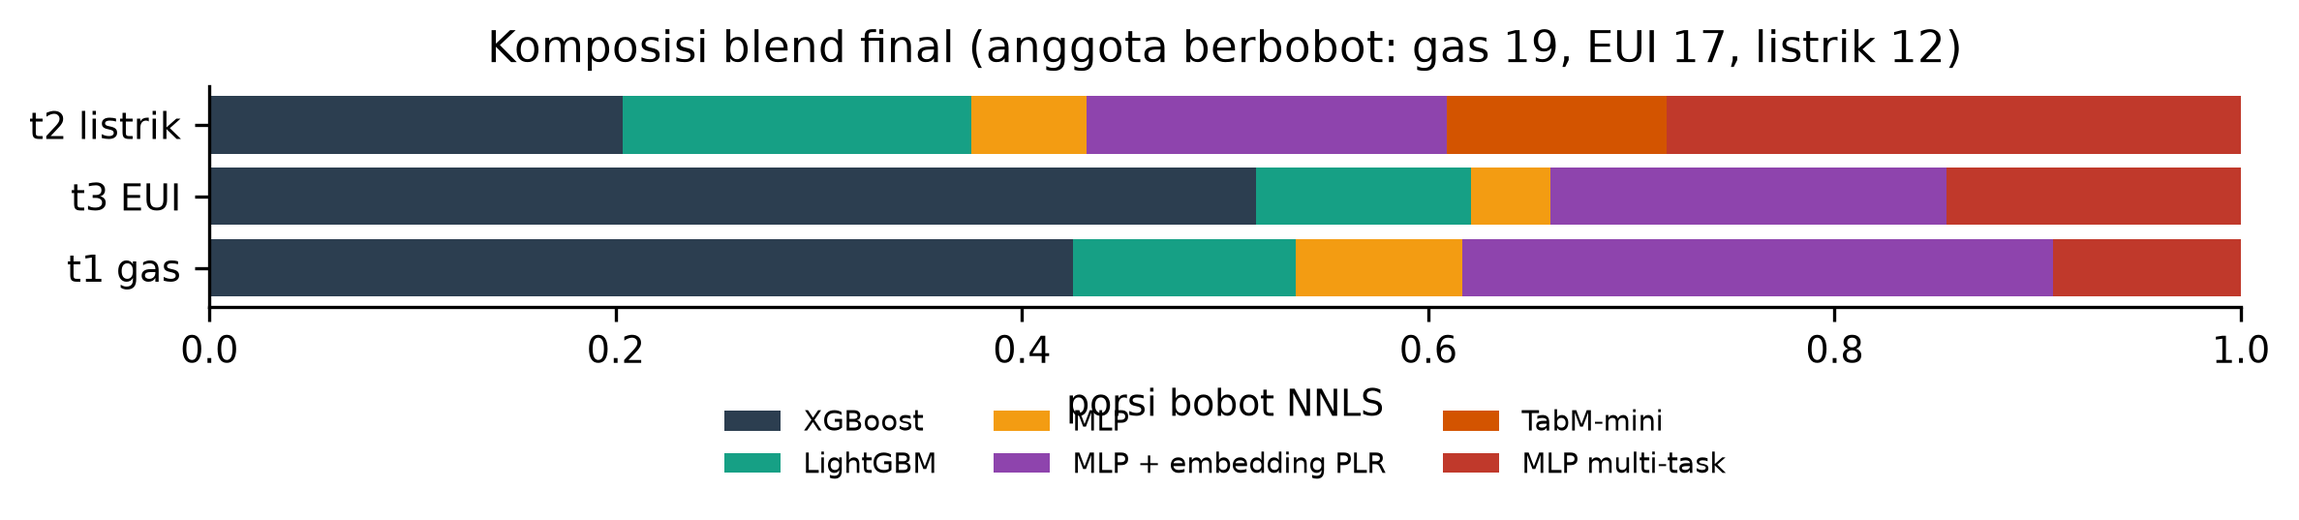
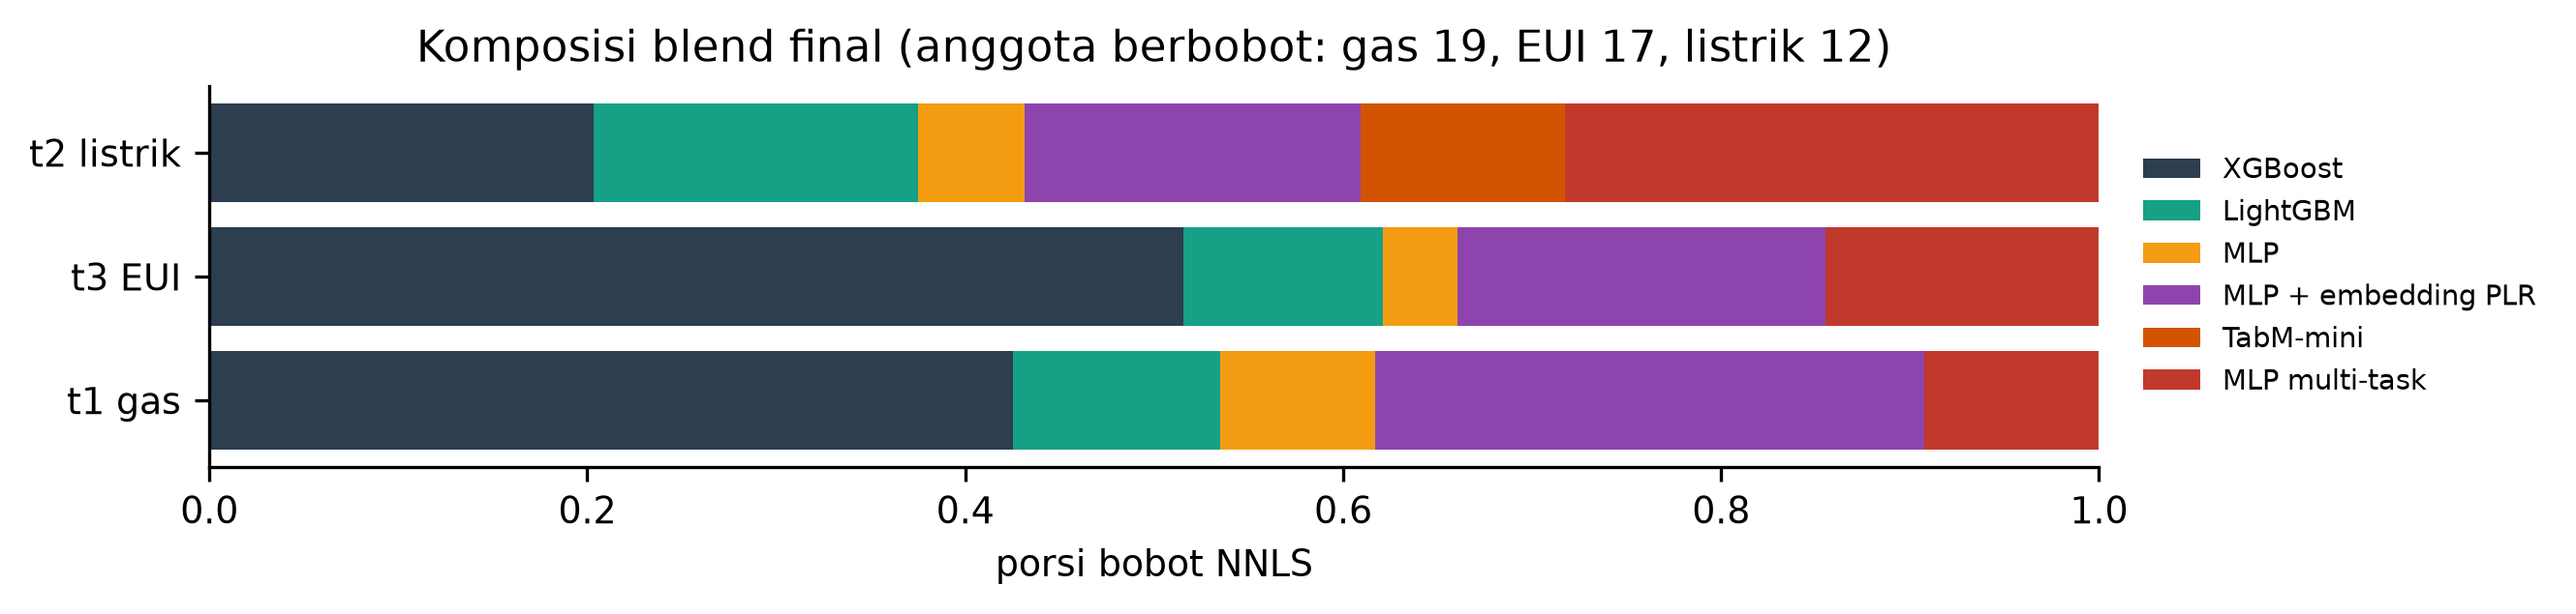
writeup: figures embedded, PDF builder (isolated venv), claims corrected; coverage statuses updated

diff --git a/scripts/build_writeup_pdf.py b/scripts/build_writeup_pdf.py
@@ -1,0 +1,65 @@
+"""Render reports/WRITEUP_DRAFT.md (+ reports/figures) to an A4 PDF.
+
+Needs markdown-it-py and xhtml2pdf, which are NOT part of the modelling environment. Run it from a separate venv:
+    python3 -m venv pdfenv && pdfenv/bin/pip install xhtml2pdf markdown-it-py
+    pdfenv/bin/python scripts/build_writeup_pdf.py [out.pdf]
+"""
+import os
+import re
+import sys
+
+from markdown_it import MarkdownIt
+from reportlab.lib.fonts import addMapping
+from reportlab.pdfbase import pdfmetrics
+from reportlab.pdfbase.ttfonts import TTFont
+from xhtml2pdf import pisa
+from xhtml2pdf.default import DEFAULT_FONT
+
+ROOT = os.path.abspath(os.path.join(os.path.dirname(__file__), ".."))
+SRC = os.path.join(ROOT, "reports", "WRITEUP_DRAFT.md")
+OUT = sys.argv[1] if len(sys.argv) > 1 else os.path.join(ROOT, "reports", "WRITEUP.pdf")
+FONT = "/usr/share/fonts/truetype/dejavu/DejaVuSans.ttf"
+FONT_B = "/usr/share/fonts/truetype/dejavu/DejaVuSans-Bold.ttf"
+
+# DejaVu covers the non-ASCII characters of the text (superscripts, arrows, approx. signs)
+pdfmetrics.registerFont(TTFont("dv", FONT))
+pdfmetrics.registerFont(TTFont("dvb", FONT_B))
+for bold, italic in ((0, 0), (0, 1), (1, 0), (1, 1)):
+    addMapping("dv", bold, italic, "dvb" if bold else "dv")
+DEFAULT_FONT["dv"] = "dv"
+
+CSS = f"""
+@page {{ size: a4 portrait; margin: 2cm 2cm 2cm 2cm;
+        @frame footer {{ -pdf-frame-content: foot; bottom: 1cm; margin-left: 2cm; margin-right: 2cm; height: 0.6cm; }} }}
+body {{ font-family: dv; font-size: 9.5pt; line-height: 1.35; }}
+h1 {{ font-size: 15pt; margin-bottom: 2pt; }}
+h2 {{ font-size: 12pt; margin-top: 10pt; margin-bottom: 3pt; border-bottom: 0.5pt solid #888; }}
+p {{ margin: 3pt 0; text-align: justify; }}
+li {{ margin: 1pt 0; }}
+table {{ border-collapse: collapse; margin: 4pt 0; }}
+th, td {{ border: 0.5pt solid #999; padding: 2pt 3pt; font-size: 8pt; }}
+th {{ background-color: #e8e8e8; }}
+img {{ width: 16.5cm; }}
+.cap {{ font-size: 8pt; color: #444; margin-bottom: 6pt; }}
+code {{ font-family: dv; font-size: 8.5pt; }}
+"""
+
+
+def figure(m):
+    """markdown image -> centred image with a caption below (xhtml2pdf has no figcaption)"""
+    alt, path = m.group(1), m.group(2)
+    full = os.path.join(ROOT, "reports", path)
+    return f'<div><img src="{full}"/></div><div class="cap">{alt}</div>'
+
+
+md = open(SRC, encoding="utf-8").read()
+assert "—" not in md, "em-dash in writeup"
+html_body = MarkdownIt("commonmark").enable("table").render(md)
+html_body = re.sub(r'<p><img src="([^"]+)" alt="([^"]*)" /></p>',
+                   lambda m: figure(re.match(r"(.*)\|(.*)", f"{m.group(2)}|{m.group(1)}")), html_body)
+html = (f"<html><head><meta charset='utf-8'><style>{CSS}</style></head><body>{html_body}"
+        "<div id='foot' style='text-align:center; font-size:8pt;'><pdf:pagenumber/></div></body></html>")
+with open(OUT, "wb") as fh:
+    res = pisa.CreatePDF(html, dest=fh, encoding="utf-8")
+assert not res.err, res.err
+print("wrote", OUT)

diff --git a/src/make_figures.py b/src/make_figures.py
@@ -126,7 +126,7 @@ fams = ["XGBoost", "LightGBM", "MLP", "MLP + embedding PLR", "TabM-mini", "MLP m
 cols = ["#2c3e50", "#16a085", "#f39c12", "#8e44ad", "#d35400", "#c0392b"]
 share = pd.DataFrame({m: pd.Series({f: sum(w for n, w in W[m].items() if fam(n) == f) for f in fams}) for m in ("gas", "eui", "elec")}).T
 share = share.div(share.sum(1), axis=0)
-fig, ax = plt.subplots(figsize=(8, 2.2))
+fig, ax = plt.subplots(figsize=(9, 2.2))
 left = np.zeros(3)
 for f, c in zip(fams, cols):
     ax.barh(["t1 gas", "t3 EUI", "t2 listrik"], share[f].values, left=left, color=c, label=f)
@@ -135,7 +135,7 @@ ax.set_xlim(0, 1)
 ax.set_xlabel("porsi bobot NNLS")
 n_mem = {m: sum(1 for w in W[m].values() if w > 0) for m in W}
 ax.set_title(f"Komposisi blend final (anggota berbobot: gas {n_mem['gas']}, EUI {n_mem['eui']}, listrik {n_mem['elec']})")
-ax.legend(ncol=3, fontsize=7, frameon=False, loc="upper center", bbox_to_anchor=(0.5, -0.35))
+ax.legend(fontsize=7, frameon=False, loc="center left", bbox_to_anchor=(1.01, 0.5))
 save(fig, "fig4_blend_weights")
 share.round(4).to_csv("reports/blend_family_share.csv")
 

diff --git a/reports/WRITEUP_DRAFT.md b/reports/WRITEUP_DRAFT.md
@@ -6,7 +6,7 @@ DICE FEST 2026, Machine Learning. Tim: [[TEAM_NAME]]
 Kami memprediksi lima indikator energi untuk lebih dari 600 ribu kawasan permukiman: konsumsi gas, konsumsi listrik, intensitas gas per meter persegi (EUI), rasio bangunan bersih, dan adopsi pemanas listrik.
 
 Kunci pendekatan kami adalah memahami struktur data sebelum memilih model. Ada tiga hal yang kami temukan:
-- Dua target bisa dihitung secara eksak dari fitur.
+- Rasio bangunan bersih bisa dihitung secara eksak dari fitur, dan adopsi pemanas listrik konstan di dalam subzona sehingga nilainya sudah diketahui untuk 92% baris test.
 - Gas dan EUI terikat identitas fisik, gas = EUI x luas lantai.
 - Data test diambil acak per baris, sehingga informasi tingkat wilayah dapat dipakai secara sah.
 
@@ -42,6 +42,10 @@ Temuan yang paling menentukan arah pemodelan:
 3. **Target makro didominasi ukuran kawasan.** Korelasi Spearman gas dengan luas lantai 0,92, dan listrik dengan jumlah meter 0,90. Sebaliknya, EUI hanya berkorelasi lemah dengan fitur tunggal (maksimum 0,18).
 4. **Noise label besar dan terstruktur.** Varians residual log mengikuti pola a + b/M, dengan M jumlah meter (Gambar 2). Pola ini khas rata-rata konsumsi rumah tangga: bila konsumsi tiap rumah tangga bervariasi acak, varians relatif totalnya turun sebanding 1/M. Pada blend final, 73% varians residual gas dan 77% varians residual listrik adalah noise semacam ini, yang tidak bisa dijelaskan fitur apa pun. Lantai skor dari fitur saja sekitar 0,21.
 
+![Gambar 1. Sebaran kelima target di train.](figures/fig1_targets.png)
+
+![Gambar 2. Varians residual log blend final per kelompok jumlah meter M, dengan kurva a + b/M. Garis putus-putus adalah bagian a yang masih bisa dijelaskan model.](figures/fig2_noise_floor.png)
+
 ## 3. Strategi validasi
 Sebelum memilih skema cross-validation, kami memeriksa bagaimana data test dibuat:
 - Rasio train/total tepat 0,700000.
@@ -52,6 +56,8 @@ Sebelum memilih skema cross-validation, kami memeriksa bagaimana data test dibua
 Kesimpulannya, test adalah sampel acak 30% per baris. Karena itu CV utama memakai KFold acak per baris (5 dan 10 fold, seed 42), dan statistik tingkat wilayah (target encoding subzona, zona, jendela spasial) sah dipakai selama dihitung out-of-fold. [[CV sekunder per zona: hasil E0271-E0278, seberapa besar skor bergantung pada wilayah yang terlihat di train.]]
 
 Bukti bahwa CV ini bisa dipercaya datang dari leaderboard (Gambar 3). Pada sepuluh submisi, public LB sama dengan CV nested ditambah estimasi holdout untuk post-processing, plus selisih tetap 0,00052 (simpangan baku 0,00004). Urutan kandidat di CV selalu sama dengan urutan di LB.
+
+![Gambar 3. Kiri: CV nested, CV dengan estimasi holdout post-processing, dan public LB per submisi. Kanan: public LB terhadap CV, selisihnya tetap.](figures/fig3_cv_lb.png)
 
 ## 4. Rekayasa target dan fitur
 **Formulasi target.** Karena gas = EUI x luas, semua model keluarga gas memprediksi kuantitas per unit lalu dikalikan kembali. Pilihan unitnya beragam:
@@ -88,6 +94,8 @@ Tabel 1 merangkum 34 anggota blend final. Satu MLP multi-task mempelajari gas da
 - XGBoost memakai `hist` di CUDA dan LightGBM `deterministic=True`. 27 anggota dilatih 10-fold dan 7 anggota 5-fold, dengan split fold yang sama (KFold seed 42).
 - MLP (PyTorch) dilatih tiga seed dengan jumlah epoch tetap pada jadwal one-cycle, tanpa memilih epoch dari fold validasi, sehingga OOF tetap jujur. Varian PLR memakai embedding periodik untuk fitur numerik. TabM-mini memakai 16 adapter berbagi bobot.
 - CatBoost GPU diuji dan kuat, tetapi tidak deterministik antar run, sehingga dikeluarkan dari pipeline final. Biayanya di CV sekitar 0,00001.
+
+![Gambar 4. Porsi bobot NNLS blend final per keluarga model.](figures/fig4_blend_weights.png)
 
 ## 6. Ensemble dan koreksi residual
 **Blend.** Bobot non-negative least squares di-fit per kolom yang dinilai: gas dengan skala baris luas lantai, EUI dan listrik langsung. Anggota dipilih secara greedy maju-mundur dengan skor blend nested (bobot di-fit di fold lain, dinilai di fold yang tidak ikut fitting). Stacking level-2 dengan LightGBM, blend per kelompok ukuran kawasan, dan bobot dari holdout tidak lebih baik dari NNLS (selisih paling banyak 0,00006). Blend memperbaiki anggota tunggal terbaik sebesar 0,0083 pada EUI, 0,0036 pada gas, dan 0,0027 pada listrik.
@@ -129,6 +137,8 @@ Yang tidak berhasil (semua tercatat di registry):
 - Koreksi residual lintas target (residual listrik untuk gas dan sebaliknya): gain nol.
 - Pencarian kebocoran (urutan ID, nilai gas "kembar", relasi rasio antar kolom): hanya 77 baris duplikat yang bisa dimanfaatkan.
 
+![Gambar 5. Atas: ablation model tunggal. Bawah: gain blend terhadap anggota tunggal terbaik dan gain koreksi residual di holdout.](figures/fig5_gains.png)
+
 ## 8. Interpretasi kebijakan
 Kami menghitung TreeSHAP pada 30 ribu baris validasi untuk model LightGBM per target (Gambar 6 sampai 8): log EUI (t3, sekaligus t1 = EUI x luas), log listrik per meter (t2), dan adopsi (t5). Rasio bangunan bersih (t4) adalah identitas eksak, jadi tidak perlu model. Nama fitur dianonimkan panitia, sehingga makna kolom di bawah ini kami simpulkan dari sebaran nilainya dan kami tulis sebagai dugaan.
 
@@ -148,6 +158,12 @@ Porsi |SHAP| per keluarga fitur:
 
 Keluarga sosio-demografi menyumbang seperempat sampai sepertiga porsi |SHAP| untuk EUI dan listrik. Konsumsi energi kawasan tidak hanya soal fisik bangunan, tetapi juga komposisi penghuninya.
 
+![Gambar 6. TreeSHAP untuk log EUI: porsi per keluarga fitur dan 15 fitur teratas.](figures/shap_t3.png)
+
+![Gambar 7. Dependence plot log EUI: intensitas turun tajam seiring luas hunian per meter.](figures/shap_dep_t3.png)
+
+![Gambar 8. Dependence plot adopsi pemanas listrik: sisa pangsa pemanas dan pangsa pemanas gas sentral (dugaan).](figures/shap_dep_t5.png)
+
 ## 9. Reproducibility
 - Seed dikunci di semua tahap (split, model, PyTorch), tidak ada batas waktu training, urutan kolom diambil dari list yang di-sort, dan versi paket dipin di `final/requirements.txt`.
 - Determinisme diuji per keluarga model: XGBoost CUDA, LightGBM CPU, dan semua varian MLP memberi hasil identik byte antar run. CatBoost GPU tidak, sehingga dikeluarkan.
@@ -161,4 +177,4 @@ Keluarga sosio-demografi menyumbang seperempat sampai sepertiga porsi |SHAP| unt
 - Pipeline penuh butuh [[jam]] di satu GPU RTX A4000. Untuk penggunaan operasional, subset anggota dengan bobot terbesar memberi hampir seluruh skor dengan waktu jauh lebih singkat.
 
 ## 11. Kesimpulan
-Skor kami datang dari tiga keputusan. Pertama, mencari struktur fisik sebelum memodelkan: dua target selesai tanpa model, dan gas serta EUI berbagi satu model. Kedua, membangun validasi yang meniru cara test dibuat, lalu membuktikannya di leaderboard: selisih CV dan LB tetap di sepuluh submisi. Ketiga, menilai setiap komponen secara jujur, dari bobot blend yang nested sampai bobot koreksi residual yang di-fit di holdout. Dengan sekitar tiga perempat galat tersisa berupa noise rata-rata rumah tangga, kami yakin skor ini dekat dengan batas yang bisa dicapai dari data yang tersedia.
+Skor kami datang dari tiga keputusan. Pertama, mencari struktur fisik sebelum memodelkan: rasio bangunan bersih selesai tanpa model, adopsi untuk 92% baris test tinggal disalin dari train, dan gas serta EUI berbagi satu model. Kedua, membangun validasi yang meniru cara test dibuat, lalu membuktikannya di leaderboard: selisih CV dan LB tetap di sepuluh submisi. Ketiga, menilai setiap komponen secara jujur, dari bobot blend yang nested sampai bobot koreksi residual yang di-fit di holdout. Dengan sekitar tiga perempat galat tersisa berupa noise rata-rata rumah tangga, kami yakin skor ini dekat dengan batas yang bisa dicapai dari data yang tersedia.

diff --git a/reports/COVERAGE.md b/reports/COVERAGE.md
@@ -16,18 +16,18 @@ Catatan delta: "H" = holdout P70/H30 (seed 7). Delta skor total = delta per-targ
 | V02 | CV_SECONDARY GroupKFold per zone_region_id dilaporkan | QUEUED | |
 | V03 | Adversarial validation train vs test | DONE | LGB 5-fold AUC 0,4997 (tanpa ID) dan 0,4990 (dengan ID); EDA_REPORT 5.B |
 | V04 | Uji pembeda skema CV via LB (dengan vs tanpa info grup) | QUEUED | |
-| V05 | Kriteria penerimaan 4/5 fold atau 2 SE | QUEUED | dipakai untuk eksperimen baru |
+| V05 | Kriteria penerimaan 4/5 fold atau 2 SE | DONE | dipakai di E0191 (5/5 fold), E0264/E0265 (5/5 fold) |
 
 ## Baseline (Fase 2)
 | ID | Pendekatan | Status | Bukti / hasil |
 |---|---|---|---|
-| B0 | Prediksi rata-rata | QUEUED | |
-| B1 | Ridge | QUEUED | |
-| B2 | LightGBM referensi tanpa ID spasial | QUEUED | |
-| B3 | B2 + ID spasial (numerik, kategori) | QUEUED | |
-| B4 | XGBoost GPU default | QUEUED | |
-| B5 | CatBoost GPU + cat_features ID | QUEUED | |
-| B6 | MLP multi-output sederhana | QUEUED | |
+| B0 | Prediksi rata-rata | DONE | E0169 (primer 1,00016), E0179 (sekunder 1,0006) |
+| B1 | Ridge | DONE | E0170 (primer 0,40011), E0180 (sekunder 0,40136) |
+| B2 | LightGBM referensi tanpa ID spasial | SKIPPED | E0171 terhenti insiden RAM 16 Okt; digantikan E0271-E0278 (LGB dengan/tanpa TE, CV primer dan sekunder) |
+| B3 | B2 + ID spasial (numerik, kategori) | SKIPPED | idem B2; ID spasial numerik dipakai di semua anggota |
+| B4 | XGBoost GPU default | DONE | E0173 (0,27808) |
+| B5 | CatBoost GPU + cat_features ID | SKIPPED | E0174 terhenti insiden RAM; CatBoost GPU tidak deterministik (D004) |
+| B6 | MLP multi-output sederhana | DONE | E0175 (0,29699) |
 
 ## Determinisme per keluarga
 | ID | Keluarga | Status | Bukti / hasil |
@@ -46,7 +46,7 @@ Catatan delta: "H" = holdout P70/H30 (seed 7). Delta skor total = delta per-targ
 | T2 | sqrt | QUEUED | |
 | T3 | Yeo-Johnson | QUEUED | |
 | T4 | rasio terhadap exposure + bobot E^p | DONE | gpm, gpgea, gpn, epm, epa dengan bobot 1/A, M, 1/M; anggota terbaik |
-| T5 | Tweedie / Gamma / Poisson | QUEUED | |
+| T5 | Tweedie / Gamma / Poisson | DONE | E0260-E0265: Poisson menang di model tunggal, Tweedie 1,2 kalah; anggota EM0002-EM0005 hanya -0,000035 di blend (D007); MLP Poisson ditolak (E0266-E0270) |
 | T6 | Huber | QUEUED | |
 | T7 | proporsi + cross_entropy (t4, t5) | DONE | t5: adopt_v2 (LGB cross_entropy, model binomial); t4 identitas eksak |
 | T8 | logit (t4, t5) | QUEUED | |
@@ -64,7 +64,7 @@ Catatan delta: "H" = holdout P70/H30 (seed 7). Delta skor total = delta per-targ
 | FB04 | Fisika energi (rasio luas, GEA/GIA, dll) | DONE | common.base_features (area_per_meter, gea_ratio, dst) |
 | FB05 | Agregat grup transductive | DONE | Data.agg_features: LGB gpm EUI -0,0011 |
 | FB06 | Target encoding OOF (subzone, zone, window sub_n, sel iklim) | DONE | te.py; sel iklim EUI -0,0012, window, 10-fold |
-| FB07 | KNN-target OOF | QUEUED | koreksi residual kNN sudah DONE (PP0004); fitur KNN-target di dalam model belum |
+| FB07 | KNN-target OOF | DONE | E0190-E0191 (gas -0,0011, EUI -0,0022, 5/5 fold), EM0001, anggota xk_/lk_/pk_/mk1 di v16 (ENS0018) |
 | FB08 | PCA / SVD transductive | QUEUED | |
 | FB09 | KMeans cluster + TE | QUEUED | |
 | FB10 | Pencarian interaksi | QUEUED | |

diff --git a/reports/JOURNAL.md b/reports/JOURNAL.md
@@ -219,7 +219,7 @@
 - CV vs LB (10 submisi): public LB = CV nested + estimasi holdout post-processing + 0,00052 (sd 0,00004).
 - src/interpret.py (LightGBM TreeSHAP, 30 ribu baris fold 0) berjalan di unit dice-shap.
 
-### [2026-10-17 13:40 WIB] Analisis | kepadatan tetangga koreksi residual (λ di test)
+### [2026-10-17 13:35 WIB] Analisis | kepadatan tetangga koreksi residual (λ di test)
 - Hipotesis: λ di-fit dengan kumpulan tetangga P (49% dari total baris), sedangkan di test kumpulannya seluruh train (70%), 1,43x lebih padat. λ mungkin terlalu kecil untuk test.
 - Setup (scratchpad density.py, holdout P70/H30, anggota holdout sama dengan xtarget): fitur koreksi dihitung dengan subsampel 70% dari P sebagai kumpulan tetangga, λ di-fit di H (cross-fitted 5-fold), lalu diterapkan ke fitur dari kumpulan P penuh dengan skala 1,0 sampai 1,6.
 - Hasil (NRMSE H):
@@ -232,13 +232,13 @@
 
 - Kesimpulan: gain koreksi naik dengan kepadatan (gas -0,00029, EUI -0,00036, elec -0,00014 dari 70% ke 100%), dan λ dari kumpulan yang lebih jarang hampir optimal di kumpulan yang lebih padat (rugi <= 0,00004 per metrik, skala 1,1-1,2 memulihkan <= 0,00001 total). λ tidak diubah. Estimasi holdout untuk gain koreksi di test bersifat konservatif.
 
-### [2026-10-17 13:40 WIB] Fase 12 | SHAP selesai
+### [2026-10-17 13:35 WIB] Fase 12 | SHAP selesai
 - src/interpret.py: reports/figures/shap_t3|t2|t5.png + shap_dep_*.png, reports/shap_family.csv, reports/shap_top_features.csv.
 - Porsi |SHAP| per keluarga: EUI sosio 25%, rasio fisik 25%, TE spasial 19%, era 11%, dimensi 10%; listrik per meter sosio 35%, rasio fisik 29%, TE 13%; adopsi sisa pangsa pemanas 45%, hvac_dist 27%, sosio 21%.
 - Fitur teratas: area_per_meter (EUI turun tajam, listrik per meter naik hampir linear), s002_ratio, area_per_epc, meters_per_epc; adopsi: hvac_rest, hvac_dist_02 (rata-rata 82%, dugaan pangsa gas sentral; < 40% menambah adopsi 5-15 poin).
 - Writeup bagian 8 dan slide 8 diisi (tiga dilema kebijakan).
 
-### [2026-10-17 13:55 WIB] E0271-E0278 | V02 CV_SECONDARY (hipotesis)
+### [2026-10-17 13:38 WIB] E0271-E0278 | V02 CV_SECONDARY (hipotesis)
 - Hipotesis: dengan GroupKFold per zona (saran panitia), semua baris validasi berada di wilayah yang tidak terlihat, sehingga TE spasial tidak tersedia dan skor jauh lebih buruk. Di CV_PRIMARY (meniru test, D001) TE memberi gain besar.
   Selisih ini menunjukkan seberapa besar skor bergantung pada informasi wilayah, dan mengapa pemilihan skema CV harus mengikuti mekanisme split.
 - Setup: configs/E0271.yaml, src/exp_cv_secondary.py (LightGBM lr 0,1, early stopping di fold validasi, hanya untuk perbandingan relatif).

diff --git a/final/README_REPRODUCE.md b/final/README_REPRODUCE.md
@@ -7,7 +7,7 @@
 | `inference_from_artifacts.ipynb` | notebook cadangan: membuat ulang submisi yang sama dari model tersimpan di `artifacts/` tanpa training |
 | `run_all.py` | satu pintu baris perintah untuk pipeline yang sama (`python final/run_all.py --clean`) |
 | `src/` | modul beku: data (`common.py`), target encoding (`te.py`), GBDT (`train_lib.py`), MLP (`nn.py`), blend NNLS (`blend.py`), adopsi (`adopt_v2.py`), koreksi residual (`postprocess.py`), duplikat (`dup_fix.py`), orkestrasi (`pipeline.py`), inference (`inference.py`) |
-| `configs/members.yaml` | 50 model anggota blend: back-end, formulasi target, bobot, parameter, jumlah fold, fitur |
+| `configs/members.yaml` | 34 anggota blend (33 jaringan/model, satu MLP multi-task untuk gas dan listrik): back-end, formulasi target, bobot, parameter, jumlah fold, fitur |
 | `configs/resid_knn.json` | bobot koreksi residual (beku, hasil fit di holdout internal 70/30 train) |
 | `artifacts/` | model per fold (XGBoost .ubj, LightGBM .txt, MLP .pt), prediksi OOF/test per anggota, `SHA256SUMS` |
 | `requirements.txt` | versi paket yang dipin |
@@ -36,7 +36,7 @@
   Bila GPU berbeda, notebook inference dari artefak memberi hasil identik karena hanya memakai prediksi dari model tersimpan.
 
 ## Hardware dan waktu jalan referensi
-- NVIDIA RTX A4000 16 GB (driver 595.84, CUDA 13.0), Intel Xeon Silver 4216 16 vCPU, RAM 24 GB, Ubuntu 26.04.
+- NVIDIA RTX A4000 16 GB (driver 595.84, CUDA 13.0), Intel Xeon Silver 4216 16 vCPU, RAM 32 GB (run #1 dimulai dengan 24 GB), Ubuntu 26.04.
 - Waktu jalan per tahap: diisi setelah run #1 (lihat `reports/phases/PHASE_11.md`).
 
 ## sha256 yang diharapkan

diff --git a/reports/NEEDS_USER.md b/reports/NEEDS_USER.md
@@ -6,3 +6,4 @@
 - [ ] TEAM_NAME masih "ISI_NAMA_TIM". Nama tim dibutuhkan untuk nama notebook final `final/DICEFEST2026_<TEAM_NAME>.ipynb`.
 - [ ] GPU dipakai bersama container lain (sekitar 11 GB VRAM terpakai dari luar). Bila memungkinkan, minta admin memastikan GPU cukup longgar selama run audit final (17 sampai 21 Okt).
 - [ ] Ketentuan format writeup PDF dan aturan penamaan file ada di guidebook lengkap (folder Google Drive panitia, lewat dicefest.web.id/guidebook/machine-learning) yang tidak bisa diakses dari server. Mohon cek: batas halaman, template, dan nama file notebook/PDF. Draf saat ini ada di reports/WRITEUP_DRAFT.md dan mengikuti struktur MASTER_PROMPT.
+- [ ] (17 Okt 13:50) Disk: 26 GB bebas. Run #1 butuh sekitar 8 GB lagi dan run notebook kedua sekitar 20 GB. Minta izin membersihkan ~/.cache/pip (1,6 GB) dan ~/.cache/uv (sekitar 6,4 GB riil) bila kurang. ~/.cache/huggingface (12 GB, model audio burung, proyek lain) tidak disentuh.

diff --git a/reports/PRESENTATION_OUTLINE.md b/reports/PRESENTATION_OUTLINE.md
@@ -23,7 +23,7 @@ Figur ada di `reports/figures/` (300 dpi). Angka bertanda [[...]] diisi setelah 
   - Adopsi pemanas listrik konstan dalam subzona (unit sensus). Untuk 92% baris test nilainya diketahui dari train.
 - Forensik split: porsi test di subzona baru 8,14% (harapan split acak 8,17%), adversarial validation AUC 0,50. Test adalah sampel acak per baris.
 - Implikasi: KFold acak per baris meniru test, dan statistik wilayah (target encoding) sah dipakai asalkan dihitung out-of-fold.
-- Catatan pembicara: tekankan bahwa dua dari lima target "selesai" sebelum model apa pun dilatih.
+- Catatan pembicara: tekankan bahwa satu target selesai tanpa model, adopsi 92% tinggal disalin, dan gas serta EUI berbagi satu model. Semua itu ditemukan sebelum model apa pun dilatih.
 
 ### Slide 4. Berapa yang sebenarnya bisa dijelaskan? (1 menit)
 - Varians residual log mengikuti a + b/M (M = jumlah meter). Pola ini khas rata-rata konsumsi rumah tangga.
